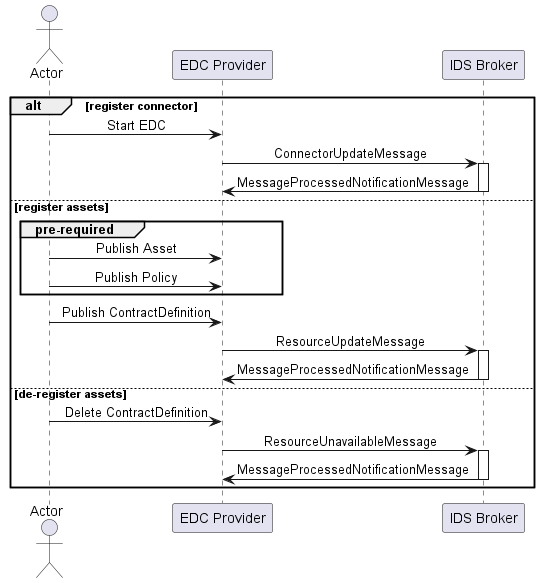
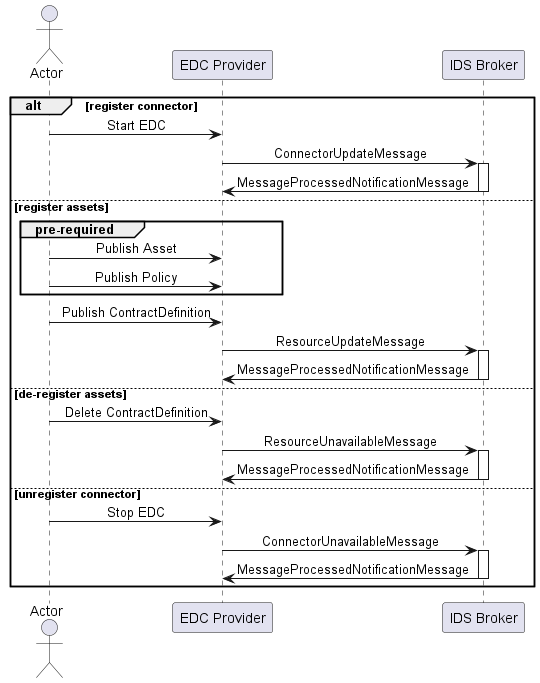
fix: add unregister connector to puml diagram (#97)
* fix: add unregister connector to puml diagram

* docs: add changelog

diff --git a/CHANGELOG.md b/CHANGELOG.md
@@ -1,6 +1,11 @@
 # Changelog
 All notable changes to this project will be documented in this file.
 
+## [x.x.x]
+
+### Fixed:
+- Added unregister connector to puml diagram
+
 ## [1.2.0] - 2023-02-02
 
 ### Feature:
